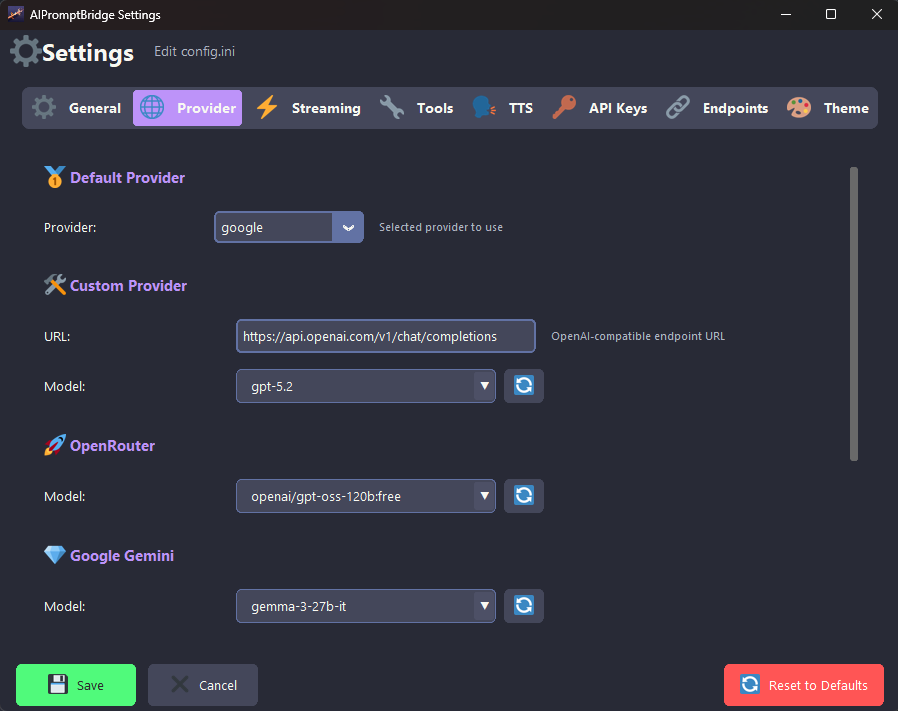
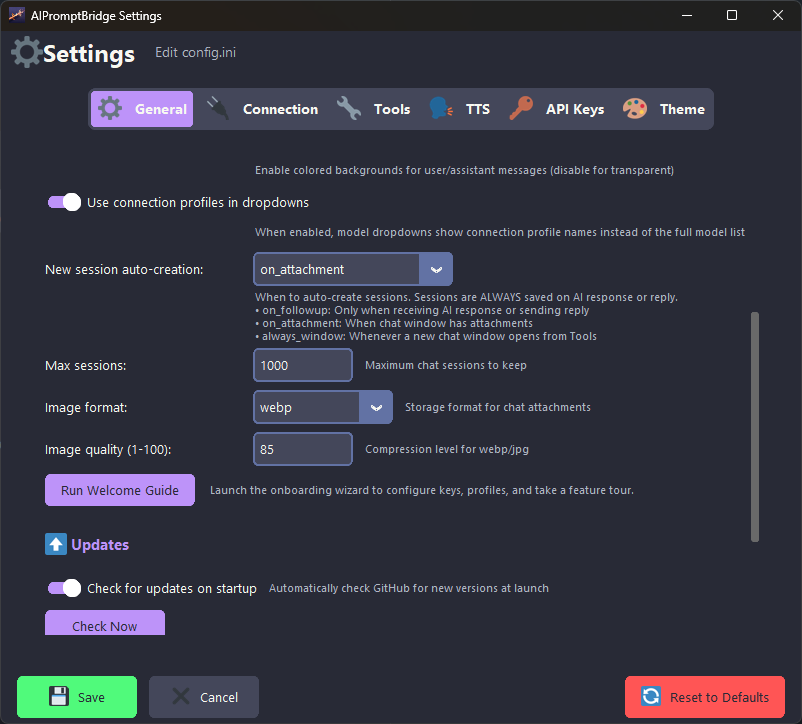
docs: update images and readme

diff --git a/CHANGELOG.md b/CHANGELOG.md
@@ -14,6 +14,16 @@
 - **Inline Thinking Extraction**: Models served via OpenRouter or custom endpoints that emit reasoning text in XML-style tags (e.g., `<think>`, `<thinking>`) are now automatically parsed, separating thinking content from the final response for collapsible display.
 - **Fallback Model Lists**: All model dropdowns (Chat Window, Audio Analyzer, Connection Manager, Onboarding) now display curated fallback model lists when live API fetching fails or is unavailable.
 - **Gemma 4 System Instructions**: Gemma 4+ models now use native `systemInstruction` support instead of prepending system prompts to user messages (legacy Gemma 1–3 behavior is preserved).
+- **Per-Session Manual Override**: Added manual mode support to the chat window, allowing users to toggle between profile selection and manual provider/model selection directly from the toolbar, with overrides persisted independently per-session.
+- **Connection Profiles in Playground**: Integrated connection profile support into the Prompt Editor's playground tab, enabling testing prompts with saved profiles or manual settings, with auto-updated tooltips.
+- **Gemini 3.1 TTS Support**: Added support for the `gemini-3.1-flash-tts-preview` model and set it as the default choice for the Text-to-Speech tool.
+- **ScrollableComboBox Tooltips**: Dropdown list items in the custom `ScrollableComboBox` now display detailed contextual tooltips on hover (such as showing provider, model, and base URL for connection profiles).
+- **Unsaved Changes Tracking**: Implemented robust dirty-state tracking with title-bar indicators and save prompts when attempting to close the Settings window or Prompt Editor with unsaved changes.
+- **Active Environment Keys**: Updated `KeyStore` to unconditionally scan for API keys in environment variables on every startup, automatically importing and persisting newly discovered keys to local storage key pools.
+- **Enable/Disable Connection Profiles**: Added support for enabling or disabling individual connection profiles, allowing users to temporarily hide profiles from dropdown selectors without deleting them.
+- **Standardized Test Suite**: Consolidated the testing workflow into a unified `run_tests.py` script that automates Ruff linting/fixes, formatting checks, and Pytest unit tests in a single command.
+- **New UI Themes**: Introduced three new color themes ("Rose", "Coffee", and "Violet") in both light and dark variants across all application interfaces.
+- **Gemini Response Parts**: Added support for capturing and propagating raw Gemini response parts (like deep reasoning thought signatures) through the API pipeline and persisting them in chat session histories.
 
 ### Improvements
 
@@ -30,6 +40,14 @@
 - **ScrollableComboBox**: Fixed focus-out race conditions that could overwrite explicit dropdown selections, and improved filtering logic to correctly reflect entry text when the dropdown is opened or values are refreshed.
 - **Tooltip Readability**: Increased font size in the Tooltip component for improved readability across all UI elements.
 - **API Key Logging**: Named API keys are now shown by name in request logs instead of generic index numbers. Key rotation is automatically disabled when a specific named key is selected via a profile override.
+- **Terminal Profile Table**: Enhanced the connection profile switching command in the terminal dashboard (`P` key) to show a beautiful, detailed table of profile configurations including API key pool/name, streaming/thinking toggles, temperature, max tokens, and custom endpoints.
+- **Connection Profile Manager Performance**: Optimized summary updates in the Connection Profile Manager by caching widget rows, replacing heavy dynamic rebuilding with static update-only panels.
+- **Earlier Tray Initialization**: Re-architected application startup to initialize the system tray earlier, preventing thread blockages during heavy module load times and ensuring proper OS dark mode synchronization.
+- **Earlier Port Conflict Resolution**: Moved local server port detection and conflict resolution to the very beginning of the startup sequence, preventing race conditions with tray launch and false port warnings.
+- **Thinking Configuration**: Added a `medium` option to thinking level configuration inputs for Gemini 3.x models in the Connection Profiles UI.
+- **Unsafe Code Refactoring**: Performed a major Ruff-driven cleanup of codebase quality, resolving unsafe try-except blocks, import conventions, static typings, and Windows subprocess window flags.
+- **Default Theme Change**: Updated the default application theme from "Dracula" to "Minimal" and refined its dark mode palette for better styling.
+- **Startup Descriptions**: Refined CLI help menus and descriptions to use modern desktop terminology instead of terminal-focused legacy descriptions.
 
 ### Removed
 
@@ -50,6 +68,8 @@
 - **Preset Manager**: Fixed model fetching not reflecting custom Gemini endpoints, and added proper API key pool/name override support for preset testing.
 - **Settings Save**: Fixed an error when saving settings if the Keys tab had never been loaded during the current session.
 - **Profile Method Indentation**: Fixed `_get_profile_names` being incorrectly nested inside another method's return statement in both Audio Analyzer and Chat Base classes.
+- **ScrollableComboBox Robustness**: Added defensive checks and error-handling blocks to the custom `ScrollableComboBox` to prevent asynchronous UI crashes or post-destruction lifecycle errors.
+- **Test Connection Pipeline**: Restructured the test connection logic in the Connection Profile Manager and the Playground to route through `RequestPipeline` instead of deprecated API methods, and updated the test result window to report token usage statistics.
 
 ## [6.4.1] - 2026-04-30
 

diff --git a/README.md b/README.md
@@ -134,9 +134,11 @@ The **TTS Processor** tool enables batch text-to-speech generation:
 
 1. Download `AIPromptBridge.zip` from [GitHub Releases](https://github.com/zaxx-q/AIPromptBridge/releases)
 2. Extract and run `AIPromptBridge.exe` (use `AIPromptBridge-NoConsole.exe` to hide console)
-3. On first launch, it automatically opens the Settings window in **API Keys** tab. Enter your API keys (see [Getting API Keys](#getting-api-keys)), enter key name (Optional), and click **Add**
-4. Optionally configure selected provider, endpoint URL, or models in **Provider** tab and click **Save**
-5. The app starts minimized to system tray
+3. On first launch, a setup wizard will automatically run to guide you step-by-step to quickly get started
+4. If you skip setup wizard or need to make changes later:
+   - Access **Profiles** to edit and test your connection profiles.
+   - Access **Settings** to customize theme modes, general behavior, and tool configurations.
+5. The app runs minimized to the Windows system tray. Double-click tray icon to hide/unhide the console.
 
 ### From Source (Alternative)
 
@@ -225,8 +227,8 @@ AIPromptBridge features a comprehensive GUI for all configuration needs, making 
 
 Access via **System Tray > Settings**. This window manages the core application configuration (`config.ini`):
 
-- **API Keys**: Manage keys for Google Gemini, OpenRouter, and Custom providers.
-- **Providers**: Select active connection profile
+- **API Keys**: Manage named API keys and custom key pools for rotation.
+- **Connection**: Set your active global profile, assign key pools, and adjust global request timeout / retry parameters.
 - **Tools**: Configure hotkeys and behavior for TextEditTool, SnipTool, and AudioTool.
 - **Theme**: Switch between 9 themes and toggle Dark/Light modes.
 - **System**: Configure server host/port, startup options, and auto-update checks.
